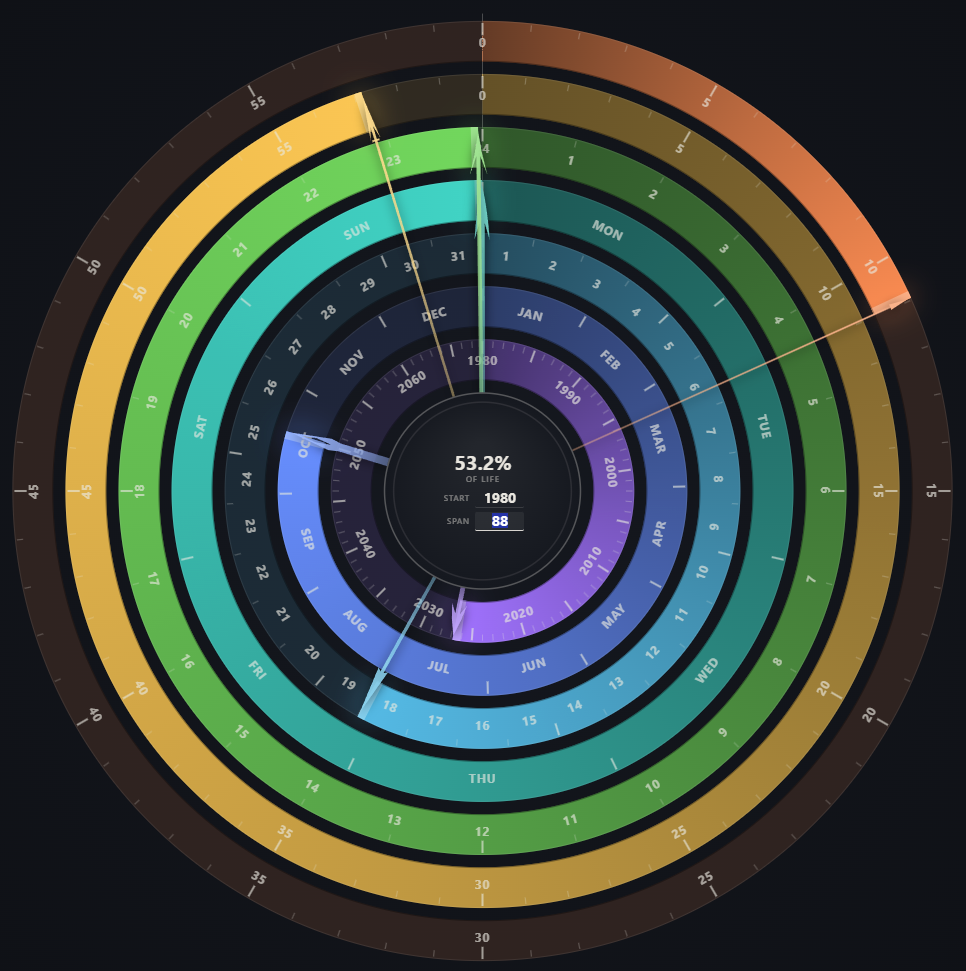
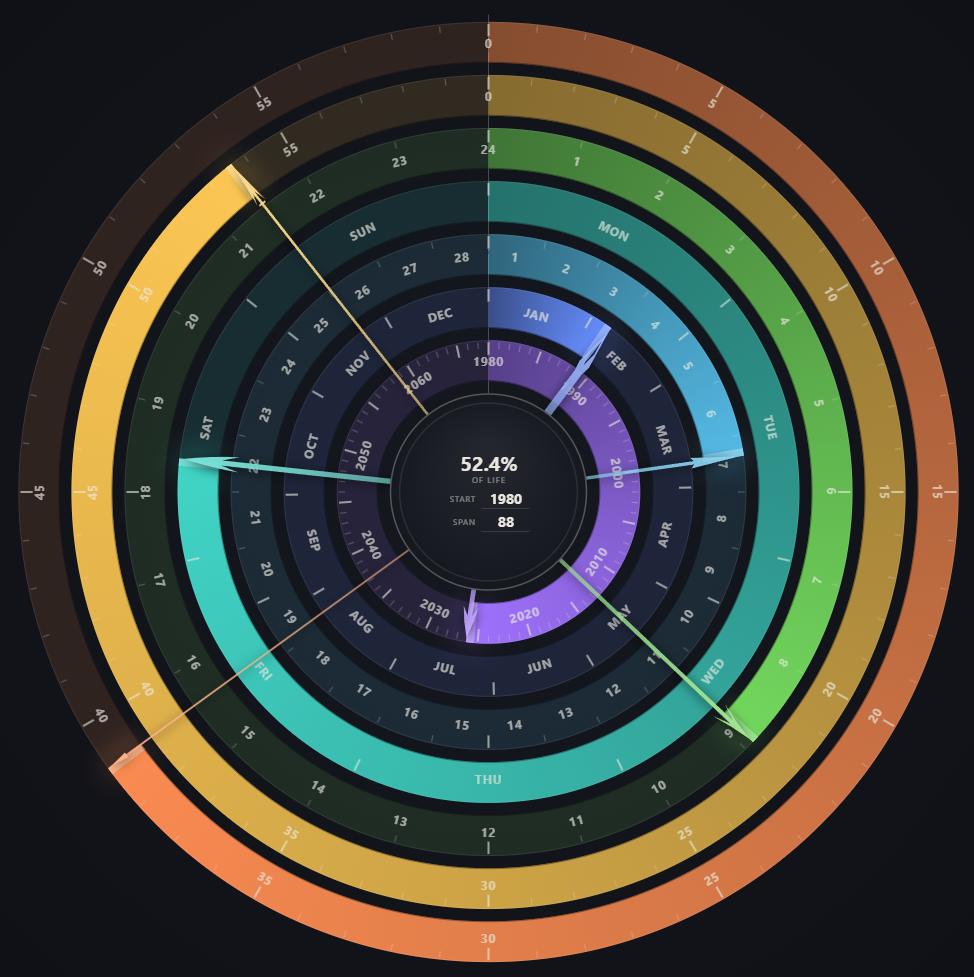
Update the screenshot with the brighter hands
Captured at ?t=2026-02-07T08:53:39, the instant in 2026 that spreads
the seven hands furthest apart (42.2 deg minimum separation), so every
hand and every fill level is visible at once.

diff --git a/README.md b/README.md
@@ -2,7 +2,7 @@
 
 A clock that measures time at seven scales at once, from the passing second to a whole human life. One HTML file, no dependencies.
 
-![The Life Clock dial: seven concentric rings, Life at the centre reading 53.2%, then the year by month, the day of the month, the week, the 24 hours, the minutes and the seconds at the rim. Each ring is filled in as far as its cycle has run.](LifeClock-screenshot.png)
+![The Life Clock dial: seven concentric rings, Life at the centre reading 52.4%, then the year by month, the day of the month, the week, the 24 hours, the minutes and the seconds at the rim. Each ring is filled in as far as its cycle has run.](LifeClock-screenshot.png)
 
 ## Why I made it
 
